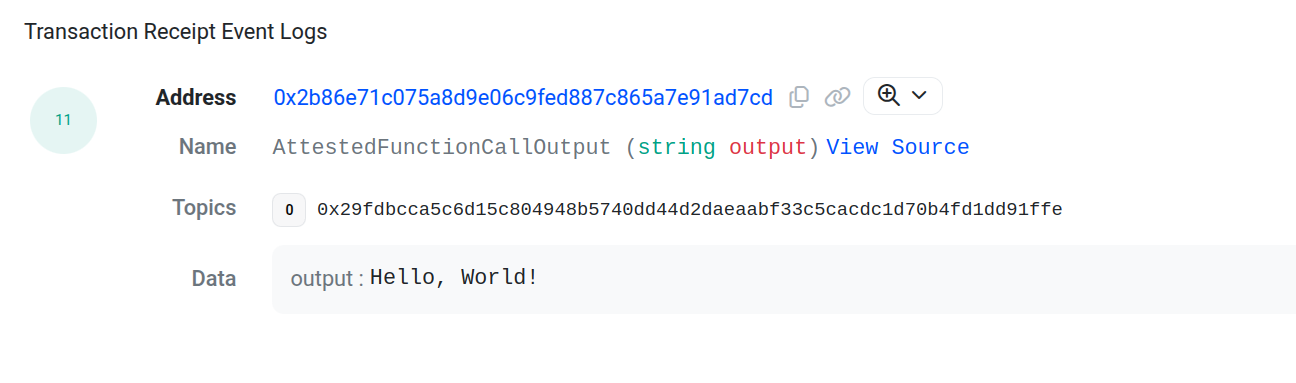
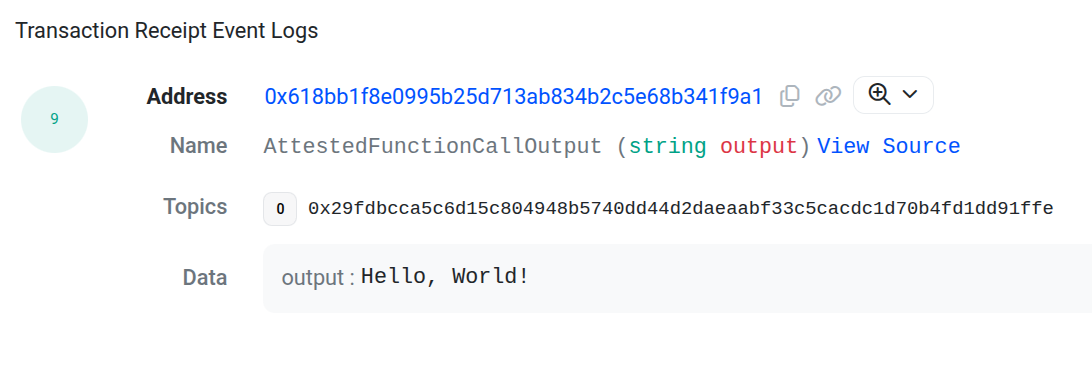
Update Base Sepolia deployment and test

diff --git a/hello_world_on_chain/README.md b/hello_world_on_chain/README.md
@@ -202,11 +202,11 @@ Notice the output of the command similar to:
 
 ```
 Successfully verified contract User on the block explorer.
-https://sepolia.basescan.org/address/0x2b86E71C075A8D9e06C9feD887C865a7e91ad7cd#code
+https://sepolia.basescan.org/address/0x618Bb1F8e0995b25d713AB834b2c5E68b341f9A1#code
 ```
 
 which includes a link to the 
-[deployed `User` contract on Basescan](https://sepolia.basescan.org/address/0x2b86E71C075A8D9e06C9feD887C865a7e91ad7cd).
+[deployed `User` contract on Basescan](https://sepolia.basescan.org/address/0x618Bb1F8e0995b25d713AB834b2c5E68b341f9A1).
 
 ### Step 5: Test the `User` contract on Base Sepolia
 
@@ -227,7 +227,7 @@ You will see the test output similar to:
 which show that the [`User`](contracts/User.sol) contract was able to
 verify the TA in just over 2 seconds.
 If you go to Basescan to see 
-[contract transaction logs](https://sepolia.basescan.org/tx/0xc772e294541b5a572e06b9a7ce96073f734cc1424e56ba69620124d4dc669d44#eventlog)
+[contract transaction logs](https://sepolia.basescan.org/tx/0x38f4dd37e285f5407b9f97325de665730b6763d6e52644cd4d999cb91eb61ca5#eventlog
 you can see that the `processTransitivelyAttestedHelloWorldOutput` emitted the
 `AttestedFunctionCallOutput` event containing the expected `"Hello, World!"` 
 WASM function output.
